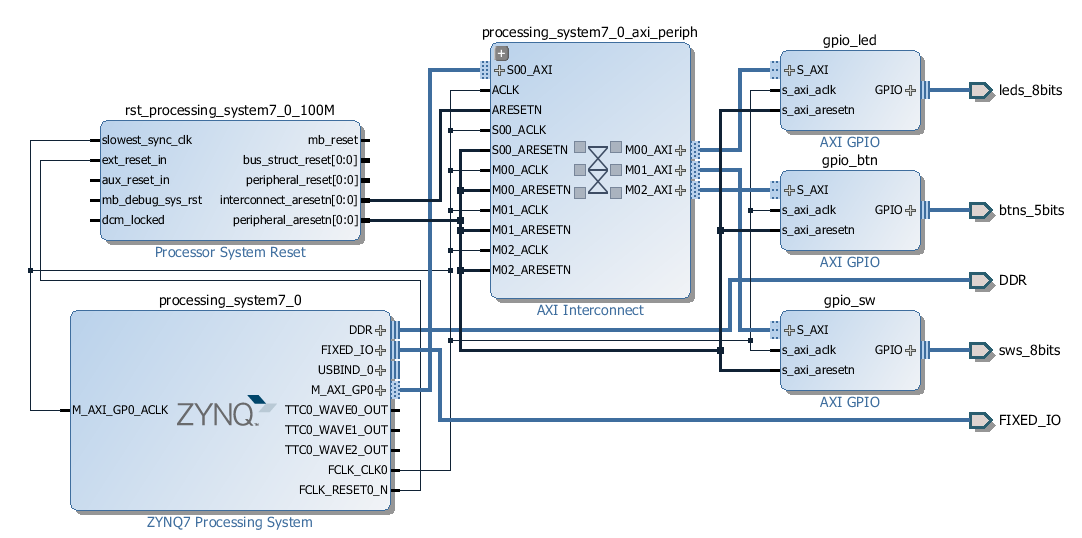
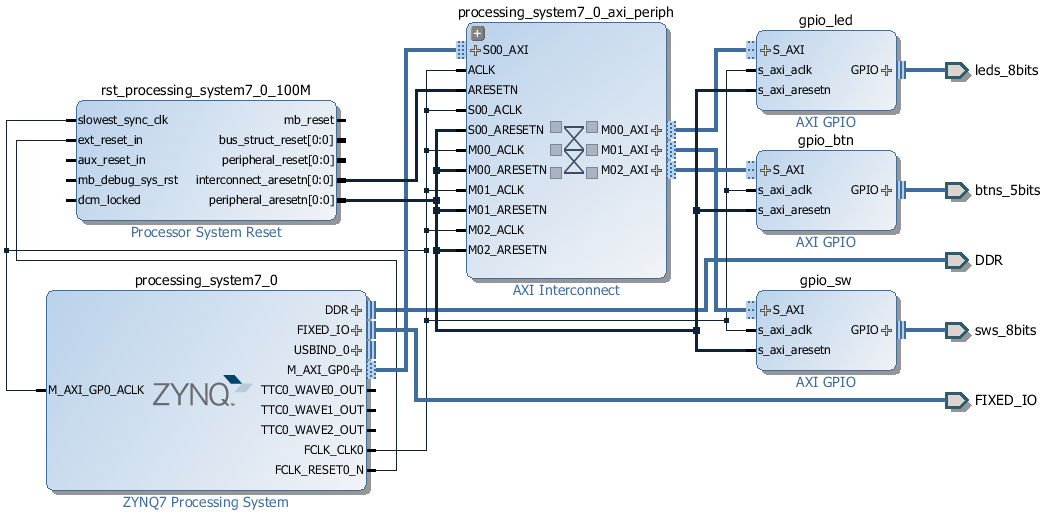
update

Changed region(s): [[0.0, 0.0, 1.0, 0.9884]]

diff --git a/zedboard/linux_test/README.md b/zedboard/linux_test/README.md
@@ -4,4 +4,6 @@ A PetaLinux fordítása nagyrészt az alapértelmezett beállításokkal törté
 
 A fordítás végeztével az SDK-ban boot image-et kell generálni az FSBL alkalmazás ELF fájljából, a hardver BIT fájlból, valamint az u-boot.elf-ből. Az így kapott *BOOT.bin* fájlt szintén fel kell másolni az SD kártyára.
 
-A *drv/gpio* a LED-ek, kapcsolók és nyomógombok programból történő kezelésére mutat példát. A *drv/gpio_kernel* egy betölthető kernel modult tartalmaz, amely a LED-eken számolja a másodperceket.
+A *drv/gpio* a LED-ek, kapcsolók és nyomógombok programból történő kezelésére mutat példát. A *drv/gpio_kernel* egy betölthető kernel modult tartalmaz, amely a LED-eken számolja a másodperceket (betöltés ´insmod´, eltávolítás ´rmmod´).
+
+![Block Design](https://github.com/bvarga92/fpga/raw/master/zedboard/linux_test/design.png)
